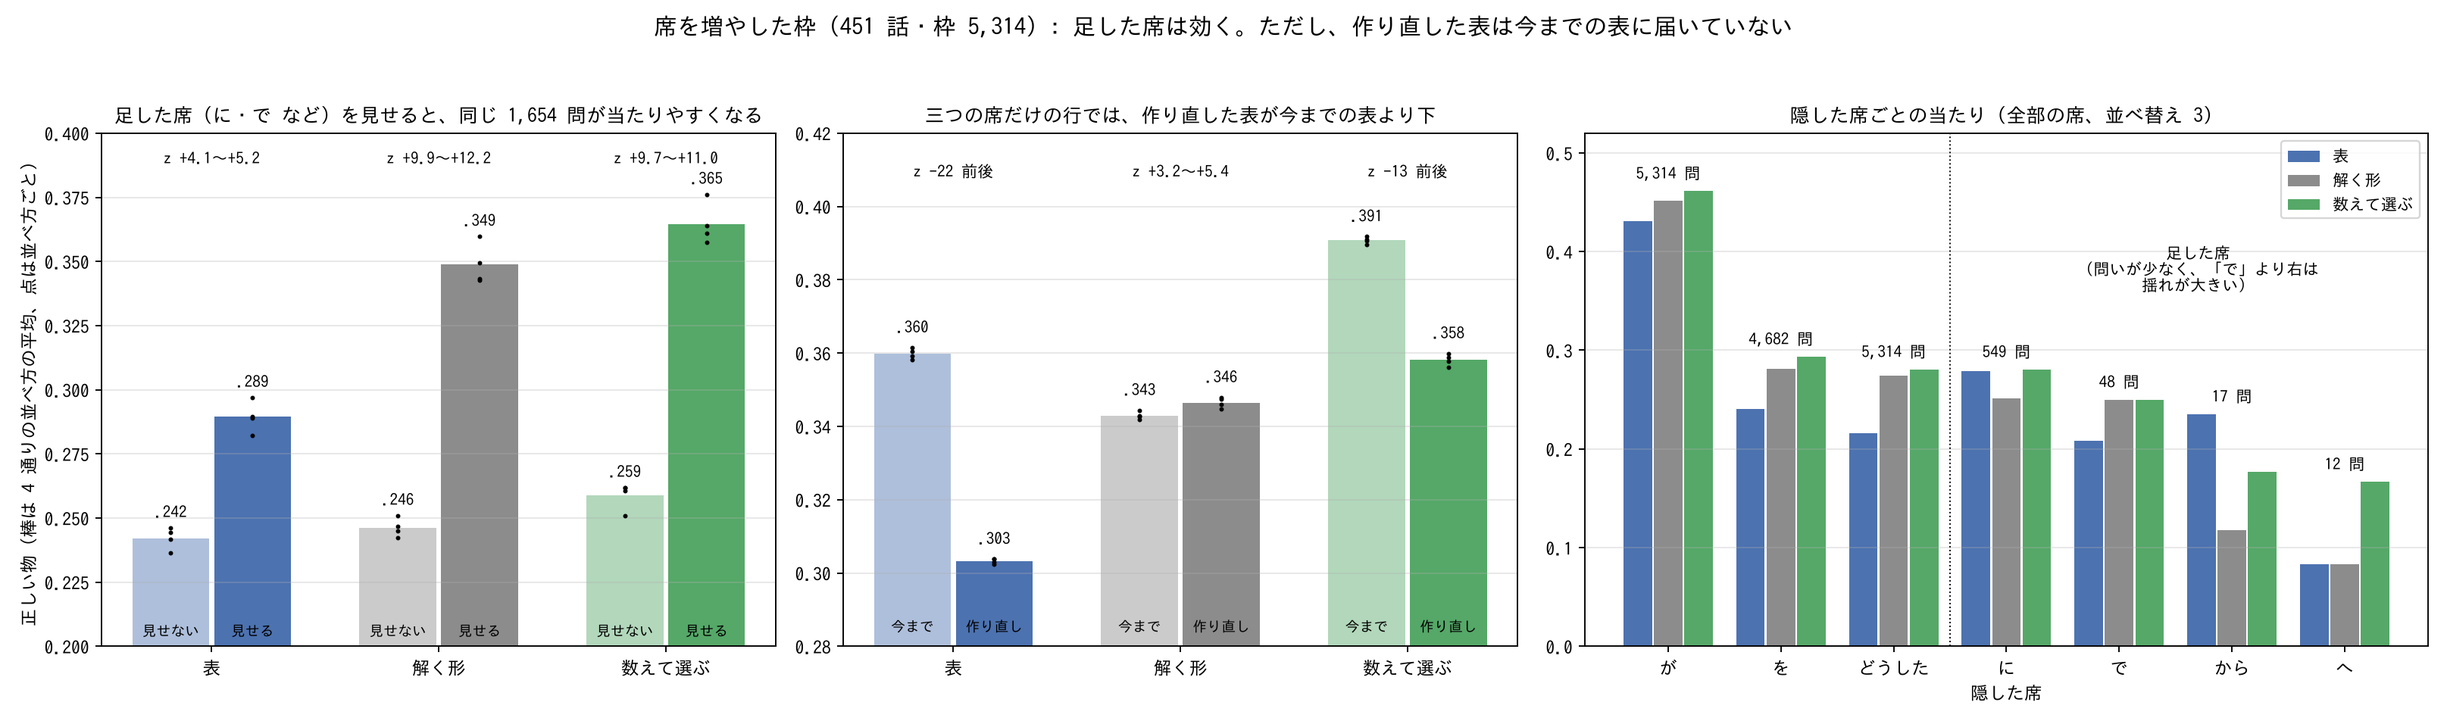
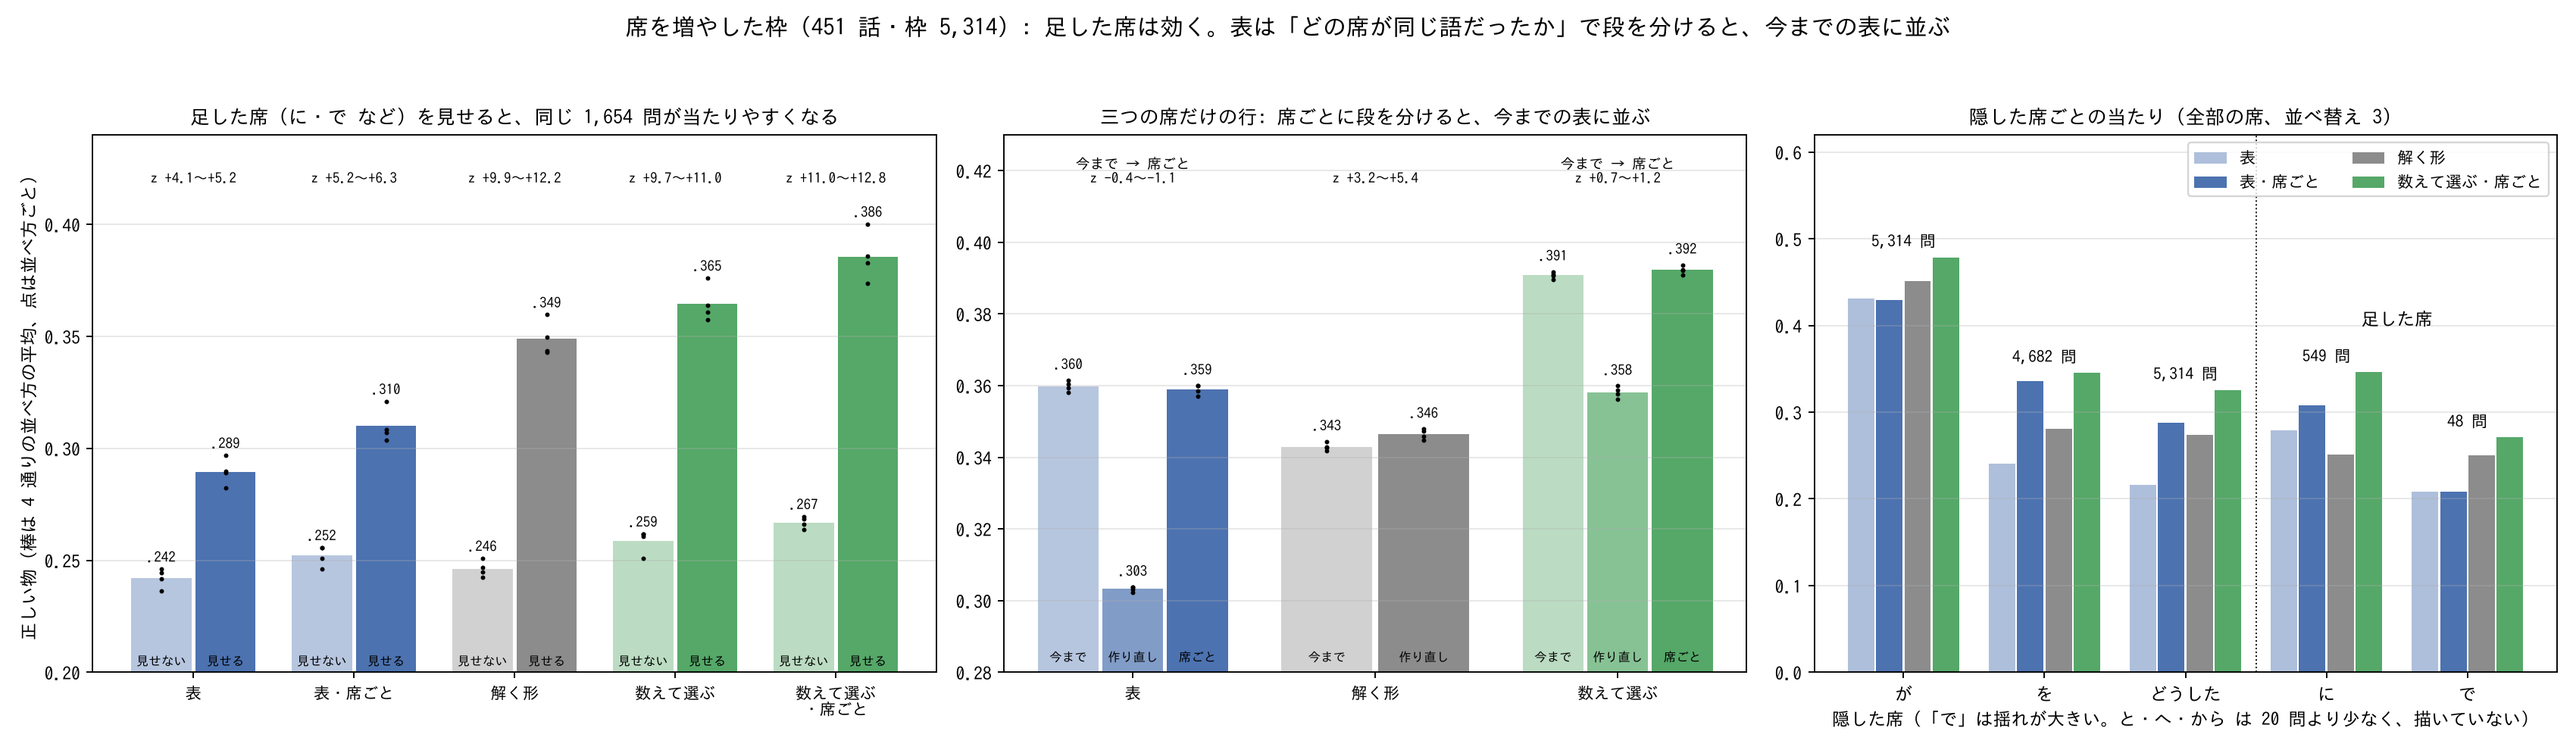
I49zs: 席ごとに段を分ける表の結果（今までの表に並ぶ。全部の席で数えて選ぶ .383）
Claude-Session: https://claude.ai/code/session_014ak5wfaaDLiGgzRytpjmEr

diff --git a/tools/fig_i49zr_frames.py b/tools/fig_i49zr_frames.py
@@ -1,4 +1,4 @@
-"""I49zr の図: 席を増やした枠（が・を・に・で・と・へ・から・どうした）で数えた結果。
+"""I49zr・I49zs の図: 席を増やした枠（が・を・に・で・と・へ・から・どうした）で数えた結果。
 
 数は PC で数えた集計値をそのまま置いている（3 つのテキスト、451 話・枠 5,314）。
 使い方: python tools/fig_i49zr_frames.py 出力.png
@@ -17,58 +17,63 @@ if os.path.exists(FONT):
     plt.rcParams["font.family"] = font_manager.FontProperties(fname=FONT).get_name()
 plt.rcParams["axes.unicode_minus"] = False
 
-C = dict(表="#4c72b0", 解く形="#8c8c8c", 数えて選ぶ="#55a868")
-# 足した席が有る枠の、が・を・どうした を隠す問い 1,654。4 通りの並べ方（見せない, 見せる）
-SHOW = {"表": ([.2443, .2418, .2461, .2364], [.2969, .2823, .2890, .2896], "z +4.1〜+5.2"),
-        "解く形": ([.2424, .2449, .2467, .2509], [.3597, .3428, .3495, .3434], "z +9.9〜+12.2"),
-        "数えて選ぶ": ([.2618, .2509, .2606, .2618], [.3761, .3573, .3609, .3640], "z +9.7〜+11.0")}
-# 三つの席だけの枠（4,552）。4 通りの並べ方（今までの部品, 作り直した部品）
-THREE = {"表": ([.3581, .3615, .3605, .3593], [.3038, .3023, .3031, .3038], "z −22 前後"),
-         "解く形": ([.3419, .3426, .3444, .3429], [.3448, .3474, .3479, .3459], "z +3.2〜+5.4"),
-         "数えて選ぶ": ([.3895, .3918, .3907, .3911], [.3562, .3599, .3588, .3577], "z −13 前後")}
-# 全部の席、並べ替え 3、隠した席ごと（席, 問い, 表, 解く形, 数えて選ぶ）
-SEAT = [("が", 5314, .4307, .4513, .4614), ("を", 4682, .2407, .2809, .2935), ("どうした", 5314, .2162, .2742, .2806),
-        ("に", 549, .2787, .2514, .2805), ("で", 48, .2083, .25, .25), ("から", 17, .2353, .1176, .1765), ("へ", 12, .0833, .0833, .1667)]
+BLUE, GRAY, GREEN = "#4c72b0", "#8c8c8c", "#55a868"
+# 足した席が有る枠の、が・を・どうした を隠す問い 1,654。4 通りの並べ方（色, [(名札, 4 つの数)], z）
+SHOW = {"表": (BLUE, [("見せない", [.2443, .2418, .2461, .2364]), ("見せる", [.2969, .2823, .2890, .2896])], "z +4.1〜+5.2"),
+        "表・席ごと": (BLUE, [("見せない", [.2557, .2509, .2557, .2461]), ("見せる", [.3210, .3035, .3083, .3071])], "z +5.2〜+6.3"),
+        "解く形": (GRAY, [("見せない", [.2424, .2449, .2467, .2509]), ("見せる", [.3597, .3428, .3495, .3434])], "z +9.9〜+12.2"),
+        "数えて選ぶ": (GREEN, [("見せない", [.2618, .2509, .2606, .2618]), ("見せる", [.3761, .3573, .3609, .3640])], "z +9.7〜+11.0"),
+        "数えて選ぶ\n・席ごと": (GREEN, [("見せない", [.2660, .2636, .2696, .2684]), ("見せる", [.4002, .3736, .3827, .3857])], "z +11.0〜+12.8")}
+# 三つの席だけの枠（4,552）
+THREE = {"表": (BLUE, [("今まで", [.3581, .3615, .3605, .3593]), ("作り直し", [.3038, .3023, .3031, .3038]), ("席ごと", [.3571, .3600, .3600, .3585])],
+                "今まで → 席ごと\nz −0.4〜−1.1"),
+         "解く形": (GRAY, [("今まで", [.3419, .3426, .3444, .3429]), ("作り直し", [.3448, .3474, .3479, .3459])], "z +3.2〜+5.4"),
+         "数えて選ぶ": (GREEN, [("今まで", [.3895, .3918, .3907, .3911]), ("作り直し", [.3562, .3599, .3588, .3577]), ("席ごと", [.3909, .3937, .3923, .3921])],
+                   "今まで → 席ごと\nz +0.7〜+1.2")}
+# 全部の席、並べ替え 3、隠した席ごと（席, 問い, 表, 表・席ごと, 解く形, 数えて選ぶ・席ごと）
+SEAT = [("が", 5314, .4307, .4291, .4513, .4787), ("を", 4682, .2407, .3358, .2809, .3454), ("どうした", 5314, .2162, .2879, .2742, .3256),
+        ("に", 549, .2787, .3078, .2514, .3461), ("で", 48, .2083, .2083, .25, .2708)]
+SEAT_FORMS = [("表", BLUE, .45), ("表・席ごと", BLUE, 1), ("解く形", GRAY, 1), ("数えて選ぶ・席ごと", GREEN, 1)]
 
 
-def pair(a, data, left, right, title, ylim):
-    w = .36
-    for i, (name, (x, y, z)) in enumerate(data.items()):
-        for k, (ys, al) in enumerate(((x, .45), (y, 1))):
-            px = i + (k - .5) * w
-            a.bar(px, sum(ys) / 4, w * .94, color=C[name], alpha=al)
+def group(a, data, title, ylim):
+    for i, (name, (col, series, z)) in enumerate(data.items()):
+        w = .8 / len(series)
+        for k, (lab, ys) in enumerate(series):
+            px = i + (k - (len(series) - 1) / 2) * w
+            a.bar(px, sum(ys) / 4, w * .94, color=col, alpha=.4 + .6 * k / max(1, len(series) - 1))
             a.plot([px] * 4, ys, ".", color="k", ms=3)
-            a.text(px, max(ys) + .004, ("%.3f" % (sum(ys) / 4))[1:], ha="center", fontsize=9)
-            a.text(px, ylim[0] + .004, (left, right)[k], ha="center", fontsize=8, color="k")
-        a.text(i, ylim[1] - .012, z, ha="center", fontsize=9)
-    a.set_xticks(range(3))
-    a.set_xticklabels(list(data))
+            a.text(px, max(ys) + .003, ("%.3f" % (sum(ys) / 4))[1:], ha="center", fontsize=8)
+            a.text(px, ylim[0] + .003, lab, ha="center", fontsize=7)
+        a.text(i, ylim[1] - (ylim[1] - ylim[0]) * .09, z, ha="center", fontsize=8)
+    a.set_xticks(range(len(data)))
+    a.set_xticklabels(list(data), fontsize=9)
     a.set_ylim(*ylim)
     a.set_title(title, fontsize=11)
     a.grid(axis="y", alpha=.3)
 
 
 def main(out):
-    fig, ax = plt.subplots(1, 3, figsize=(19, 5.6), gridspec_kw=dict(width_ratios=[1, 1, 1.25]))
-    pair(ax[0], SHOW, "見せない", "見せる", "足した席（に・で など）を見せると、同じ 1,654 問が当たりやすくなる", (.2, .4))
+    fig, ax = plt.subplots(1, 3, figsize=(20, 5.8), gridspec_kw=dict(width_ratios=[1.25, 1.1, 1.1]))
+    group(ax[0], SHOW, "足した席（に・で など）を見せると、同じ 1,654 問が当たりやすくなる", (.2, .44))
     ax[0].set_ylabel("正しい物（棒は 4 通りの並べ方の平均、点は並べ方ごと）")
-    pair(ax[1], THREE, "今まで", "作り直し", "三つの席だけの行では、作り直した表が今までの表より下", (.28, .42))
+    group(ax[1], THREE, "三つの席だけの行: 席ごとに段を分けると、今までの表に並ぶ", (.28, .43))
     a = ax[2]
-    w = .27
-    for i, (s, n, t, u, m) in enumerate(SEAT):
-        for k, (v, name) in enumerate(((t, "表"), (u, "解く形"), (m, "数えて選ぶ"))):
-            a.bar(i + (k - 1) * w, v, w * .94, color=C[name], label=name if i == 0 else None)
-        a.text(i, max(t, u, m) + .012, "{:,} 問".format(n), ha="center", fontsize=9)
+    w = .2
+    for i, row in enumerate(SEAT):
+        for k, (name, col, al) in enumerate(SEAT_FORMS):
+            a.bar(i + (k - 1.5) * w, row[2 + k], w * .94, color=col, alpha=al, label=name if i == 0 else None)
+        a.text(i, max(row[2:]) + .012, "{:,} 問".format(row[1]), ha="center", fontsize=9)
     a.axvline(2.5, color="k", lw=.8, ls=":")
-    a.text(4.7, .36, "足した席\n（問いが少なく、「で」より右は\n揺れが大きい）", ha="center", fontsize=9)
+    a.text(3.5, .40, "足した席", ha="center", fontsize=10)
     a.set_xticks(range(len(SEAT)))
     a.set_xticklabels([s[0] for s in SEAT])
-    a.set_xlabel("隠した席")
-    a.set_ylim(0, .52)
+    a.set_xlabel("隠した席（「で」は揺れが大きい。と・へ・から は 20 問より少なく、描いていない）")
+    a.set_ylim(0, .62)
     a.set_title("隠した席ごとの当たり（全部の席、並べ替え 3）", fontsize=11)
     a.grid(axis="y", alpha=.3)
-    a.legend(fontsize=9, loc="upper right")
-    fig.suptitle("席を増やした枠（451 話・枠 5,314）: 足した席は効く。ただし、作り直した表は今までの表に届いていない", fontsize=13)
+    a.legend(fontsize=9, loc="upper right", ncol=2)
+    fig.suptitle("席を増やした枠（451 話・枠 5,314）: 足した席は効く。表は「どの席が同じ語だったか」で段を分けると、今までの表に並ぶ", fontsize=13)
     fig.tight_layout(rect=(0, 0, 1, .94))
     fig.savefig(out, dpi=170)
 

diff --git a/docs/i49_inner_vessel.md b/docs/i49_inner_vessel.md
@@ -2073,3 +2073,23 @@ I49t の続き。元の答え方は変えずに、上位の候補だけを「流
 - 見せる席が 1 つだけの問い（262 問）は、ほとんど当たらない（.06〜.07）。
 - 切り方の粗さ（PC で見た目安）: ひらがなの後の助詞が切れずに どうした の中に残る行が 26 前後、語の途中で切る行が 2、様子の語が どうした に残る行、「〜をする」80 行（どうした が「する」になる。43 節では外していた行）。
 - 手で置いた値: 席の並び、助詞と見る決まり（すぐ前がひらがなでなく、後ろに 2 字より多く残る）、表の段の順、表の半減期 1024、並べ替えの k、後ろ 2 割。
+
+### 44 節の続き: 表を「どの席が同じ語だったか」で分ける（I49zs、FrameSeatTable。同じ材料、同じ日）
+
+上の落ち込みの直し。段を（同じ語だった席の組, 残りを似た語で借りるか見ないか）に分ける。同じ語の数が多い段が先、という所は前と同じ。同じ数の段どうしの順は手で置かず、答え合わせのたびに段ごとの 1 位が当たったかを数え、それまでに多く当たってきた段を先に使う。図は上の物を描き直した。
+
+| 4 通りの並べ方の平均（正しい物） | 表・席ごと | 数えて選ぶ・席ごと | 比べる相手 |
+|---|---|---|---|
+| 三つの席 | .359 | .392 | 今までの表 .360、今までの数えて選ぶ .391 |
+| 全部の席 | .347 | .383 | 作り直しの表 .297、数えて選ぶ .347 |
+| 足した席が有る枠の 1,654 問・見せない | .252 | .267 | |
+| 同じ 1,654 問・足した席を見せる | .310 | .386 | |
+
+- 三つの席だけの行では、今までの表に並んだ（z −0.4〜−1.1）。数えて選ぶも今までの物に並ぶ（z +0.7〜+1.2）。落ち込みの原因は「どの席が同じ語だったかを区別していなかった事」で合っていた。今までの表が手で置いていた段の順（近い席が先、述語側が次）は、当たりを数えるだけで同じ所まで届く。
+- 全部の席では、表が .297 から .347（z +23〜+25）、数えて選ぶが .347 から .383（z +15.5〜+16.5）。今の 5 つの形の中で、数えて選ぶ・席ごとが一番上。
+- 足した席を見せた時の伸びも、数えて選ぶ・席ごとが一番大きい（.267 から .386、z +11.0〜+12.8）。
+- 隠した席ごと（並べ替え 3、数えて選ぶ・席ごと）: が .479、を .345、どうした .326、に .346、で .271（48 問）。
+- 言えない事: 今までの部品を越えたわけではない。三つの席では並んだだけ。席を足した分の得は、足した席が有る枠（全体の 14%）に限られる。
+- 数え直しでの小さな揺れ: 今までの表の「合わせて」が、1 つの並べ方で .4420 と .4421 に分かれた。同点の時の選び方が、集まりの並び順に左右されている所が有ると見ている（確かめていない）。
+- 掛かった時間は 384 秒（形が 3 つの時は 113 秒）。
+- 手で置いた値: 同じ語の数が多い段を先に使う事、同じ当たりの時の順（借りる方、席の並びの早い方）。ほかは 44 節と同じ。

diff --git a/docs/parts_list.md b/docs/parts_list.md
@@ -360,7 +360,7 @@
 | `fig_i49zo_look.py` | I49zo の図: 答えが違った問いで、ローカル AI が付けた自然さの点（古い答え・新しい答え・正解）。 |
 | `fig_i49zp_text_talks.py` | I49zp の図: 「A が B を C する」のテキスト（切り出し無し）で数え直した結果と、材料ごとの自然さの点。 |
 | `fig_i49zp_three_materials.py` | I49zp の図（2 枚目）: 切り出しを通さない材料 5 通り（前の版・修正版・その 2 つ・3 つ目・3 つ全部）での、形ごとの当たり。 |
-| `fig_i49zr_frames.py` | I49zr の図: 席を増やした枠（が・を・に・で・と・へ・から・どうした）で数えた結果。 |
+| `fig_i49zr_frames.py` | I49zr・I49zs の図: 席を増やした枠（が・を・に・で・と・へ・から・どうした）で数えた結果。 |
 | `i49b_read_long.py` | I49b: 物差し 6 の小さな試し。長い文章（青空文庫）を器（I49a の Vessel）に 1 文ずつ読ませ、読み進むうちの変化を数える（数えだけ）。 |
 | `i49b_wave_plot.py` | I49b の記録の切り出し（数の列の JSON）から、反応の波の図を 2 枚描く。本文は扱わない（数だけ）。 |
 | `i49c_read_words.py` | I49c の読み手: 文章を 1 語ずつ渡す（持ち主の案「文章の渡しを単語ごとに」「ループが次の単語を自発的に読み込む」、未確定）。 |

diff --git a/docs/experiments_index.md b/docs/experiments_index.md
@@ -29,6 +29,7 @@
 | 部品 | 中身 | 数 |
 |---|---|---|
 | 席を増やした枠（FrameSolve・FrameTable） | が・を・に・で・と・へ・から・どうした の枠。行は助詞の位置で切る | 足した席を見せると、同じ 1,654 問が 解く形 .246 → .349、数えて選ぶ .259 → .365、表 .242 → .289 |
+| 席ごとに段を分ける表（I49zs、FrameSeatTable）と、それを使う数えて選ぶ | 段 =（同じ語だった席の組, 借りるか）。同じ数の段の順は、当たりを数えて決める | 三つの席で今までの表に並ぶ（.359 対 .360）。全部の席で 表 .297 → .347、数えて選ぶ .347 → .383。足した席を見せると .267 → .386 |
 
 ### 2.1 覚える・忘れる
 
